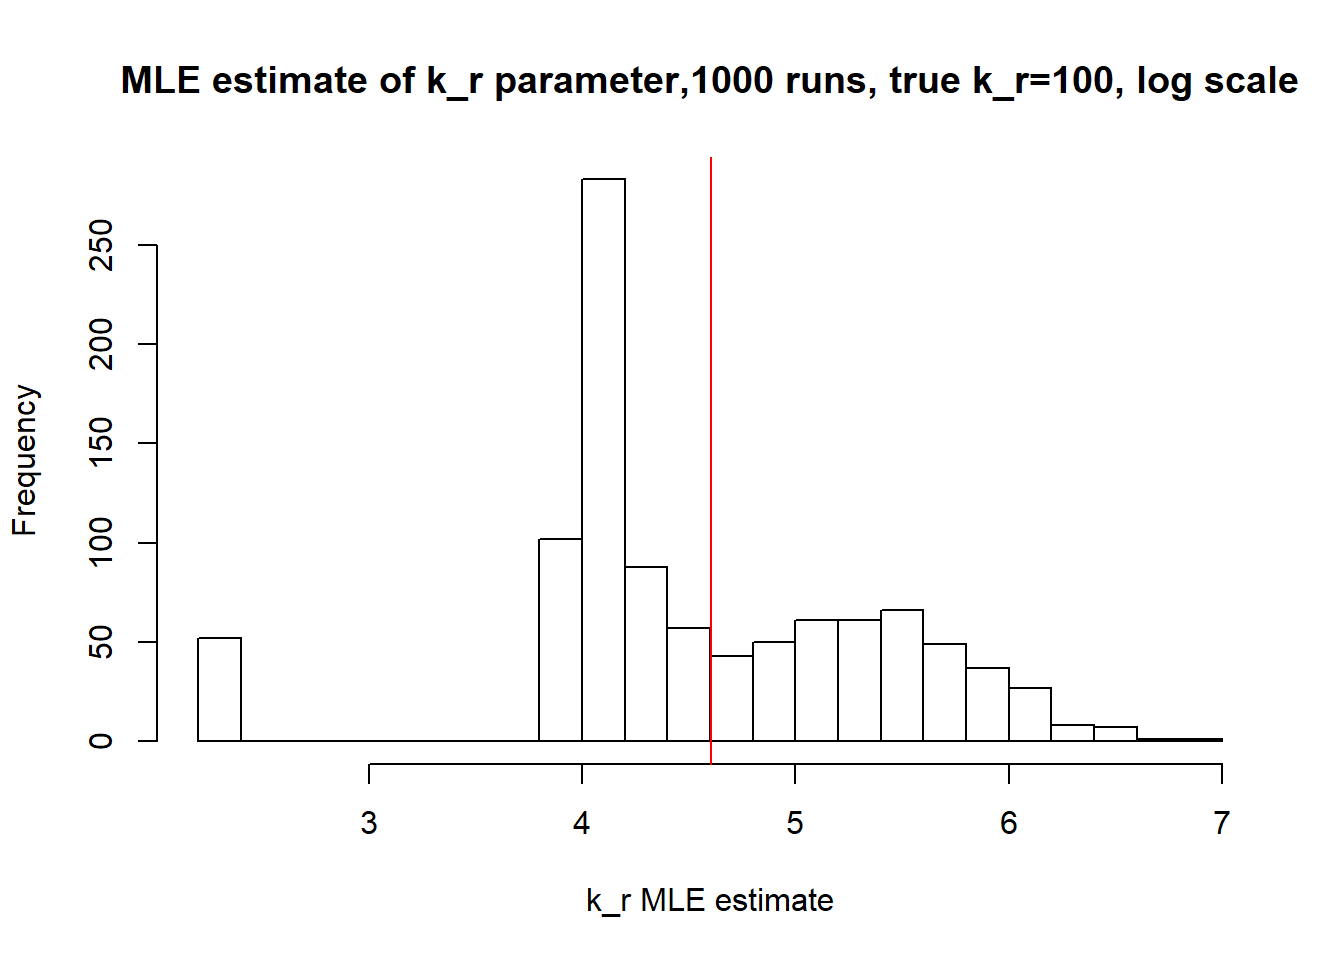
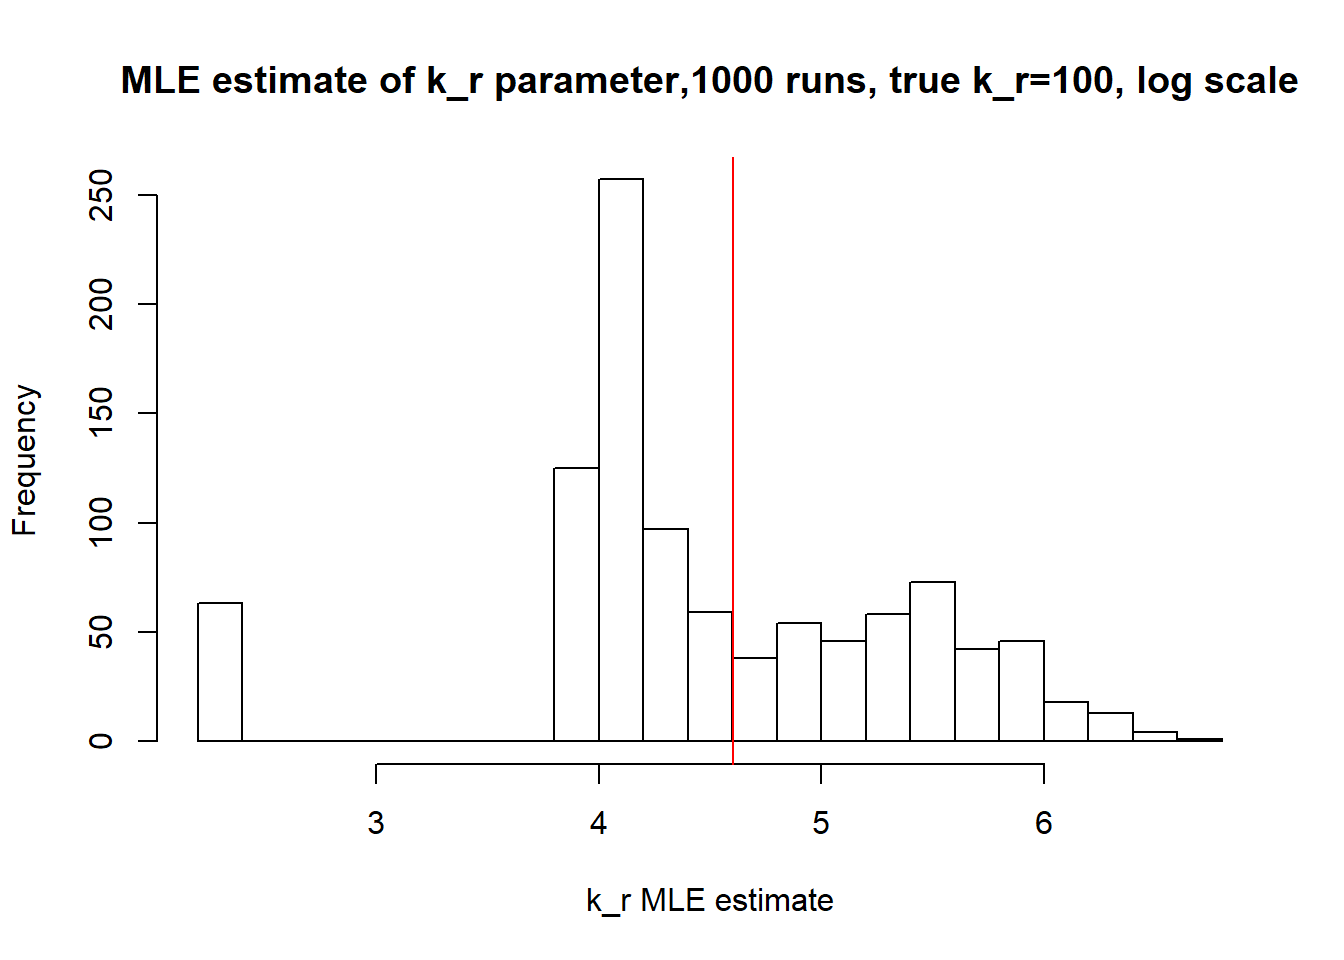
Build site.

diff --git a/docs/MLE_estimates.html b/docs/MLE_estimates.html
@@ -344,7 +344,7 @@ div.section {
 <div class="tab-content">
 <div id="summary" class="tab-pane fade in active">
 <p>
-<strong>Last updated:</strong> 2020-01-15
+<strong>Last updated:</strong> 2020-02-01
 </p>
 <p>
 <strong>Checks:</strong> <span class="glyphicon glyphicon-ok text-success" aria-hidden="true"></span> 6 <span class="glyphicon glyphicon-exclamation-sign text-danger" aria-hidden="true"></span> 1
@@ -459,10 +459,10 @@ analysis/MLE.py
 <div class="panel panel-default">
 <div class="panel-heading">
 <p class="panel-title">
-<a data-toggle="collapse" data-parent="#workflowr-checks" href="#strongRepositoryversionstrongahrefhttpsgithubcomMargareth2407ThesissingleRNAtree1a2e6aa5eba1ecf6d350d9be627a138f805e3dectargetblank1a2e6aaa"> <span class="glyphicon glyphicon-ok text-success" aria-hidden="true"></span> <strong>Repository version:</strong> <a href="https://github.com/Margareth2407/Thesis_single_RNA/tree/1a2e6aa5eba1ecf6d350d9be627a138f805e3dec" target="_blank">1a2e6aa</a> </a>
+<a data-toggle="collapse" data-parent="#workflowr-checks" href="#strongRepositoryversionstrongahrefhttpsgithubcomMargareth2407ThesissingleRNAtree430ebecdd136d0bf7a75e194a03042af774cfbfdtargetblank430ebeca"> <span class="glyphicon glyphicon-ok text-success" aria-hidden="true"></span> <strong>Repository version:</strong> <a href="https://github.com/Margareth2407/Thesis_single_RNA/tree/430ebecdd136d0bf7a75e194a03042af774cfbfd" target="_blank">430ebec</a> </a>
 </p>
 </div>
[2 lines of base64/hex data omitted]
 <div class="panel-body">
 <p>
 Great! You are using Git for version control. Tracking code development and connecting the code version to the results is critical for reproducibility. The version displayed above was the version of the Git repository at the time these results were generated. <br><br> Note that you need to be careful to ensure that all relevant files for the analysis have been committed to Git prior to generating the results (you can use <code>wflow_publish</code> or <code>wflow_git_commit</code>). workflowr only checks the R Markdown file, but you know if there are other scripts or data files that it depends on. Below is the status of the Git repository when the results were generated:
@@ -473,12 +473,12 @@ Ignored files:
     Ignored:    .Rhistory
     Ignored:    analysis/.RData
     Ignored:    analysis/.Rhistory
-    Ignored:    analysis/figure/
 
 Unstaged changes:
     Modified:   Data_sim.Rmd
-    Deleted:    analysis/Data_sim.Rmd
-    Deleted:    analysis/MLE_bootstrap_N_variability.Rmd
+    Deleted:    analysis/MLE_estimation_with_noise_parameter.Rmd
+    Deleted:    analysis/MLE_variability_by_sample_size.Rmd
+    Deleted:    analysis/Real_data_filter.Rmd
 
 </code></pre>
 <p>
@@ -521,44 +521,44 @@ There are no past versions. Publish this analysis with <code>wflow_publish()</co
 <div id="i-small-k_on-and-k_off-case" class="section level2">
 <h2>I) Small <span class="math inline">\(k_{on}\)</span> and <span class="math inline">\(k_{off}\)</span> case:</h2>
 <p><img src="figure/MLE_estimates.Rmd/unnamed-chunk-2-1.png" width="672" style="display: block; margin: auto;" /></p>
-<pre><code>[1] &quot;true k_on is 0.1; k_on mean 0.101 k_on median 0.099&quot;</code></pre>
+<pre><code>[1] &quot;true k_on is 0.1; k_on mean 0.1 k_on median 0.098&quot;</code></pre>
 <p><img src="figure/MLE_estimates.Rmd/unnamed-chunk-2-2.png" width="672" style="display: block; margin: auto;" /></p>
 <pre><code>[1] &quot;true k_off is 0.1; k_off mean 0.101 k_off median 0.098&quot;</code></pre>
 <p><img src="figure/MLE_estimates.Rmd/unnamed-chunk-2-3.png" width="672" style="display: block; margin: auto;" /></p>
-<pre><code>[1] &quot;true k_r is 100; k_r mean 100.068 k_r median 100.016&quot;</code></pre>
+<pre><code>[1] &quot;true k_r is 100; k_r mean 99.98 k_r median 99.959&quot;</code></pre>
 <p><img src="figure/MLE_estimates.Rmd/unnamed-chunk-2-4.png" width="672" style="display: block; margin: auto;" /><img src="figure/MLE_estimates.Rmd/unnamed-chunk-2-5.png" width="672" style="display: block; margin: auto;" /><img src="figure/MLE_estimates.Rmd/unnamed-chunk-2-6.png" width="672" style="display: block; margin: auto;" /></p>
 <p>Small <span class="math inline">\(k_{on}\)</span> and <span class="math inline">\(k_{off}\)</span> leads to bimodal distribution where population of cells with high expression level is visibly separated from population of cells without expression. Such separation allows us to identify parameters very clearly and we will see more proofs of that in a future materials. Notice how both mean and median of the MLE estimates are close to the true value.</p>
 </div>
 <div id="ii-large-k_on-and-k_off-case" class="section level2">
 <h2>II) Large <span class="math inline">\(k_{on}\)</span> and <span class="math inline">\(k_{off}\)</span> case:</h2>
 <p><img src="figure/MLE_estimates.Rmd/unnamed-chunk-3-1.png" width="672" style="display: block; margin: auto;" /></p>
-<pre><code>[1] &quot;true k_on is 50; k_on mean 44.97 k_on median 35.337&quot;</code></pre>
+<pre><code>[1] &quot;true k_on is 50; k_on mean 43.69 k_on median 30.898&quot;</code></pre>
 <p><img src="figure/MLE_estimates.Rmd/unnamed-chunk-3-2.png" width="672" style="display: block; margin: auto;" /></p>
-<pre><code>[1] &quot;true k_off is 50; k_off mean 124.038 k_off median 18.503&quot;</code></pre>
+<pre><code>[1] &quot;true k_off is 50; k_off mean 117.465 k_off median 14.569&quot;</code></pre>
 <p><img src="figure/MLE_estimates.Rmd/unnamed-chunk-3-3.png" width="672" style="display: block; margin: auto;" /></p>
-<pre><code>[1] &quot;true k_r is 100; k_r mean 135.279 k_r median 74.731&quot;</code></pre>
+<pre><code>[1] &quot;true k_r is 100; k_r mean 131.413 k_r median 72.744&quot;</code></pre>
 <p><img src="figure/MLE_estimates.Rmd/unnamed-chunk-3-4.png" width="672" style="display: block; margin: auto;" /><img src="figure/MLE_estimates.Rmd/unnamed-chunk-3-5.png" width="672" style="display: block; margin: auto;" /><img src="figure/MLE_estimates.Rmd/unnamed-chunk-3-6.png" width="672" style="display: block; margin: auto;" /></p>
 <p>Large <span class="math inline">\(k_{on}\)</span> and <span class="math inline">\(k_{off}\)</span> case lead to Poisson or negative binomial distribution which means big population of highly expressed cells and small population of non-expressed cells. If cell quickly shift between active and non-active states, we cannot distiguish that from cell being constantly in active state which leads to unidentifiable solution. And indeed if we take a look on MLE estimates histogramms, means and medians we can observe that estimated parameters are not close to the true value in majority of cases.</p>
 </div>
 <div id="iii-large-value-of-k_off-and-small-k_on-case" class="section level2">
 <h2>III) Large value of <span class="math inline">\(k_{off}\)</span> and small <span class="math inline">\(k_{on}\)</span> case:</h2>
 <p><img src="figure/MLE_estimates.Rmd/unnamed-chunk-4-1.png" width="672" style="display: block; margin: auto;" /></p>
-<pre><code>[1] &quot;true k_on is 1; k_on mean 0.98 k_on median 0.954&quot;</code></pre>
+<pre><code>[1] &quot;true k_on is 1; k_on mean 0.985 k_on median 0.969&quot;</code></pre>
 <p><img src="figure/MLE_estimates.Rmd/unnamed-chunk-4-2.png" width="672" style="display: block; margin: auto;" /></p>
-<pre><code>[1] &quot;true k_off is 10; k_off mean 44.467 k_off median 6.995&quot;</code></pre>
+<pre><code>[1] &quot;true k_off is 10; k_off mean 42.802 k_off median 7.055&quot;</code></pre>
 <p><img src="figure/MLE_estimates.Rmd/unnamed-chunk-4-3.png" width="672" style="display: block; margin: auto;" /></p>
-<pre><code>[1] &quot;true k_r is 100; k_r mean 364.979 k_r median 75.556&quot;</code></pre>
+<pre><code>[1] &quot;true k_r is 100; k_r mean 357.281 k_r median 73.906&quot;</code></pre>
 <p><img src="figure/MLE_estimates.Rmd/unnamed-chunk-4-4.png" width="672" style="display: block; margin: auto;" /><img src="figure/MLE_estimates.Rmd/unnamed-chunk-4-5.png" width="672" style="display: block; margin: auto;" /><img src="figure/MLE_estimates.Rmd/unnamed-chunk-4-6.png" width="672" style="display: block; margin: auto;" /></p>
 <p>Large value if <span class="math inline">\(k_{off}\)</span> and small <span class="math inline">\(k_{on}\)</span> scenario results in majority of cells having zero or low expression levels. MLE method estimates <span class="math inline">\(k_{on}\)</span> accurately by both mean and median while <span class="math inline">\(k_{off}\)</span> and <span class="math inline">\(k_{r}\)</span> are unidentifiable.</p>
 </div>
 <div id="iv-small-value-of-k_off-and-big-k_on" class="section level2">
 <h2>IV) Small value of <span class="math inline">\(k_{off}\)</span> and big <span class="math inline">\(k_{on}\)</span></h2>
 <p><img src="figure/MLE_estimates.Rmd/unnamed-chunk-5-1.png" width="672" style="display: block; margin: auto;" /></p>
-<pre><code>[1] &quot;true k_on is 10; k_on mean 14.426 k_on median 10&quot;</code></pre>
+<pre><code>[1] &quot;true k_on is 10; k_on mean 14.094 k_on median 10.073&quot;</code></pre>
 <p><img src="figure/MLE_estimates.Rmd/unnamed-chunk-5-2.png" width="672" style="display: block; margin: auto;" /></p>
-<pre><code>[1] &quot;true k_off is 1; k_off mean 6.253 k_off median 1.129&quot;</code></pre>
+<pre><code>[1] &quot;true k_off is 1; k_off mean 4.905 k_off median 1.155&quot;</code></pre>
 <p><img src="figure/MLE_estimates.Rmd/unnamed-chunk-5-3.png" width="672" style="display: block; margin: auto;" /></p>
-<pre><code>[1] &quot;true k_r is 100; k_r mean 102.191 k_r median 99.923&quot;</code></pre>
+<pre><code>[1] &quot;true k_r is 100; k_r mean 100.73 k_r median 99.939&quot;</code></pre>
 <p><img src="figure/MLE_estimates.Rmd/unnamed-chunk-5-4.png" width="672" style="display: block; margin: auto;" /><img src="figure/MLE_estimates.Rmd/unnamed-chunk-5-5.png" width="672" style="display: block; margin: auto;" /><img src="figure/MLE_estimates.Rmd/unnamed-chunk-5-6.png" width="672" style="display: block; margin: auto;" /></p>
 <p>Small value of <span class="math inline">\(k_{off}\)</span> and big <span class="math inline">\(k_{on}\)</span> produces a population of cells where majority of observation have high expression level with some quantity oflowly expressed cells (we see it as a long left tail on the distribution graph). Even though the population is not clearly separated as in case I (small <span class="math inline">\(k_{on}/k_{off}\)</span>), we still are able to correctly estimate parameters by MLE method. The solution is not perfect, as we still see some overestimation of parameters on the histogramm, but the meadian is quite close to the true value.</p>
 <p>Ref. <a href="https://www.nature.com/articles/s41586-018-0836-1" class="uri">https://www.nature.com/articles/s41586-018-0836-1</a></p>
